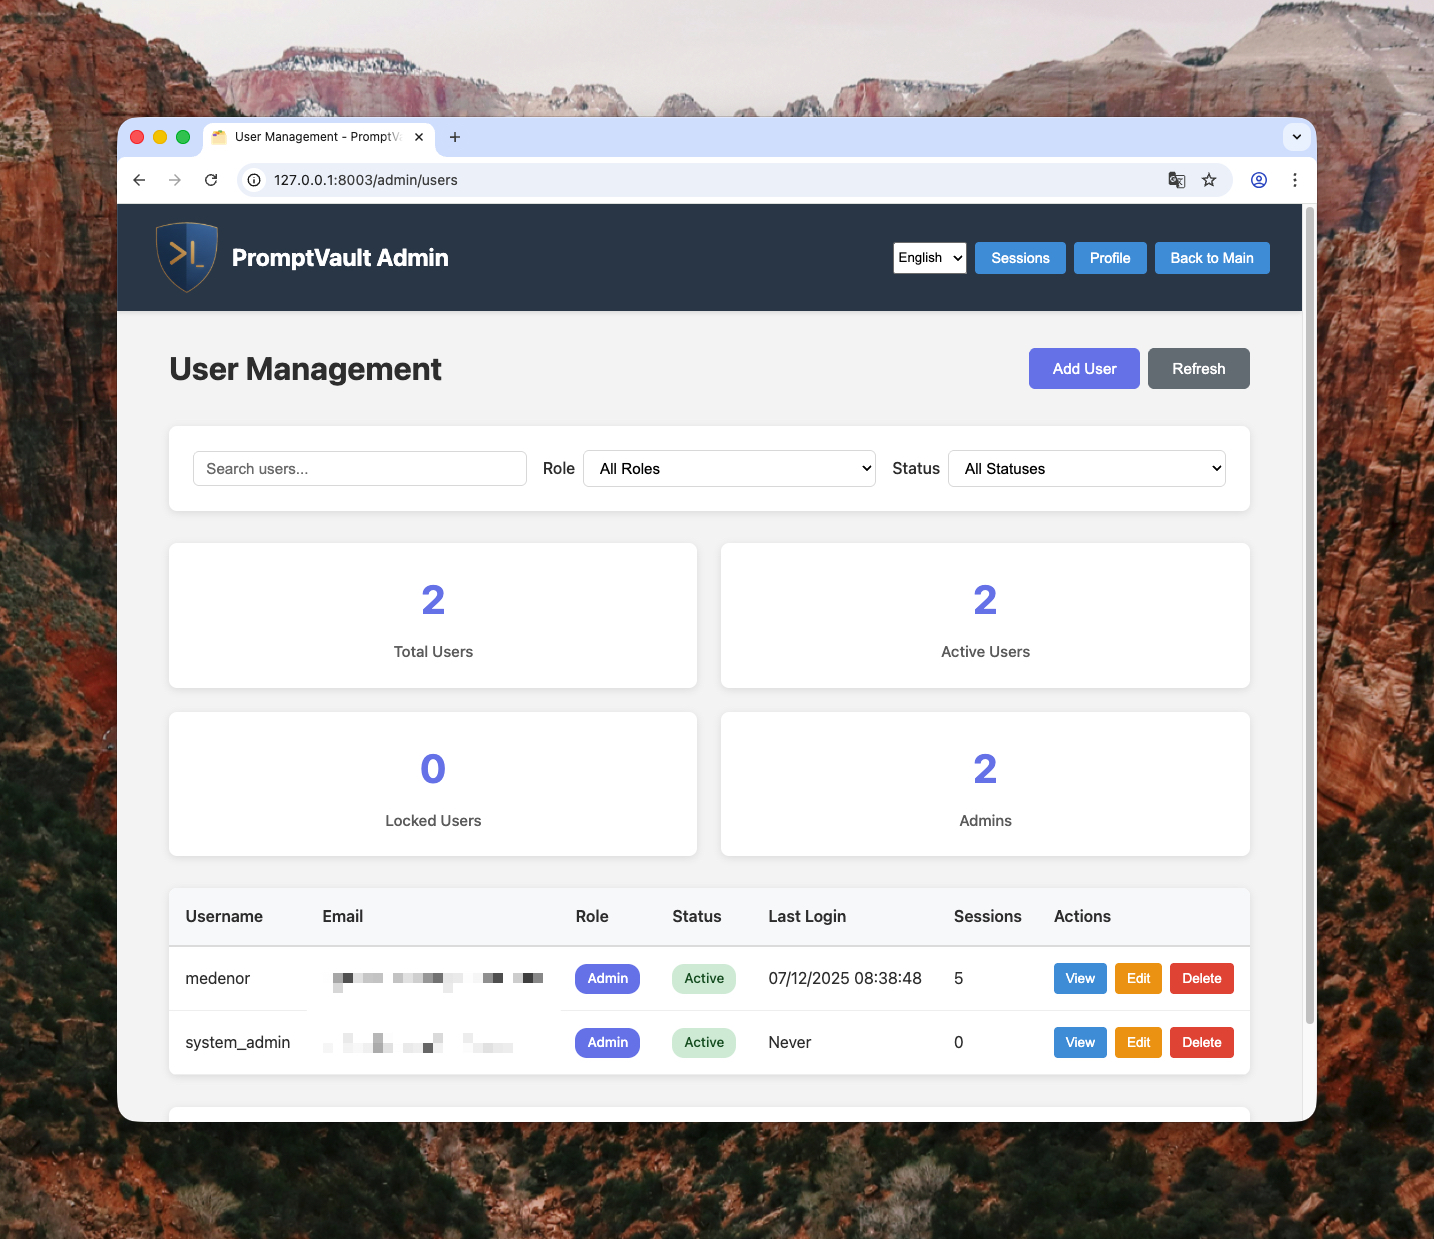
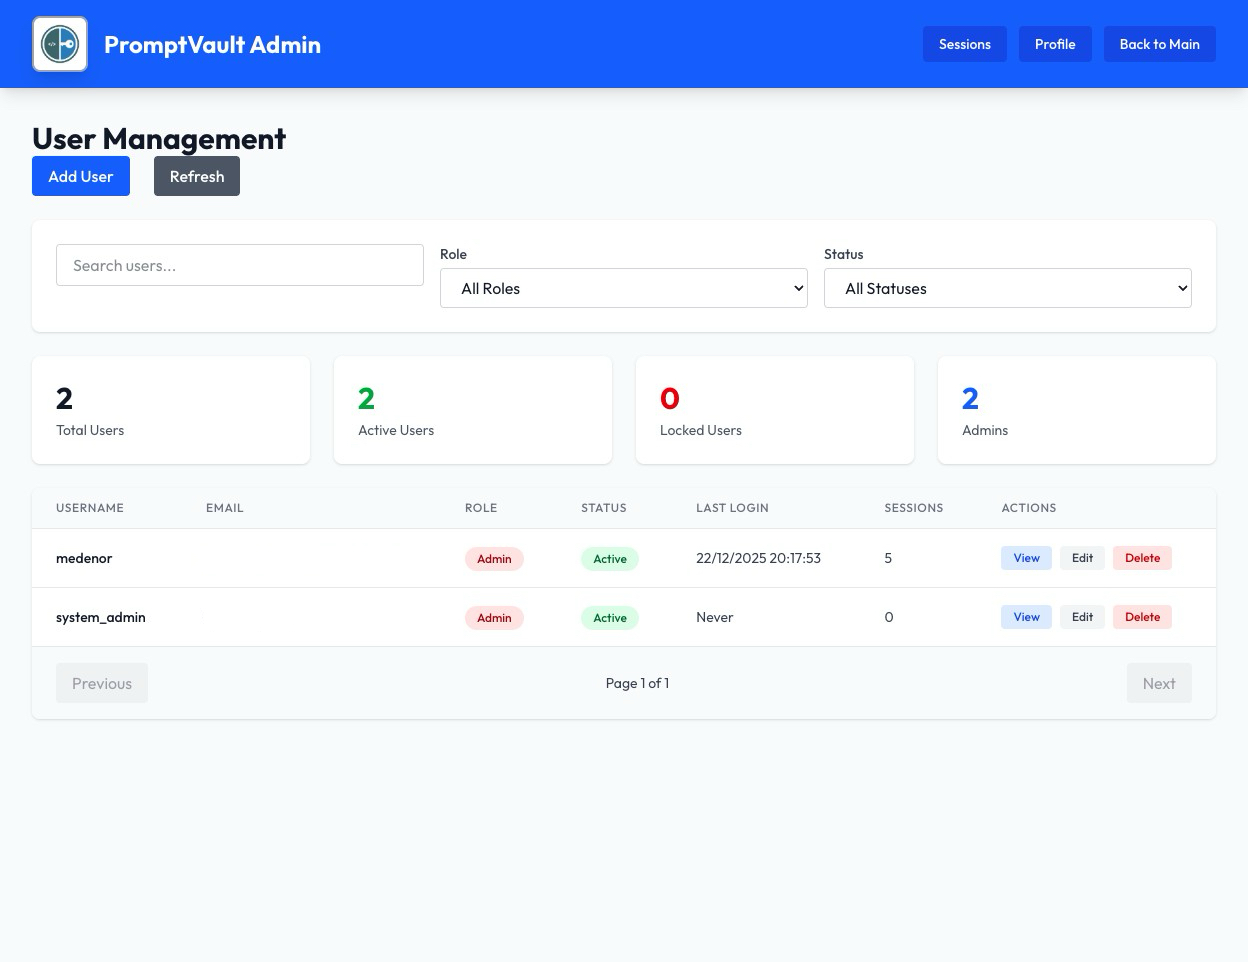
docs: gallery updated to align with new design

diff --git a/README.md b/README.md
@@ -209,56 +209,56 @@ PromptVault includes a comprehensive, production-ready backup system to prevent 
 #### 1. Login Page
 
 <img src="docs/images/gallery/promptvault_loginpage.jpg" alt="PromptVault Login Page" width="90%"><br/>
-Secure authentication interface with JWT-based login and password reset functionality.
+Tailwind v4 flat-design login screen with JWT authentication and password reset access.
 
 <br><br>
 
 #### 2. Main Interface
 
 <img src="docs/images/gallery/promptvault_main_page.jpg" alt="PromptVault Main Interface" width="90%"><br/>
-Clean and intuitive dashboard for managing all your prompts with categories and tags.
+Modern prompt dashboard with filter sidebar, tag chips, and responsive card grid.
 
 <br><br>
 
 #### 3. Prompt Editor
 
 <img src="docs/images/gallery/promptvault_prompt_editor.jpg" alt="Prompt Editor Interface" width="90%"><br/>
-Rich text editor with real-time validation and support for categories, tags, and metadata.
+Redesigned prompt editor with structured fields, categories, tags, and commit messaging.
 
 <br><br>
 
 #### 4. Version History & Diff Visualization
 
 <img src="docs/images/gallery/promptvault_version_history.jpg" alt="Version History" width="90%"><br/>
-Git-like version control system with full history tracking, diff visualization, and revert capabilities.
+Version history modal with searchable entries, revert actions, and quick selection.
 
 <br><br>
 
 #### 5. Import/Export Management
 
 <img src="docs/images/gallery/promptvault_import_export.jpg" alt="Import/Export Management Interface" width="90%"><br/>
-Support for multiple formats (CSV, Markdown, JSON) with preview functionality before import.
+Import/export hub with side-by-side panels, format options, and live statistics.
 
 <br><br>
 
 #### 6. Data Backup System
 
 <img src="docs/images/gallery/promptvault_backup.jpg" alt="Backup Management Interface" width="90%"><br/>
-Comprehensive backup and restoration system with automatic pre-operation backups and compression.
+Backup management view with create/restore actions, maintenance tools, and stats.
 
 <br><br>
 
 #### 7. User Profile Management
 
 <img src="docs/images/gallery/promptvault_user_profile.jpg" alt="User Profile Interface" width="90%"><br/>
-Manage your profile, change password, and view active sessions with device information.
+Profile page with preferences, security controls, and active session management.
 
 <br><br>
 
 #### 8. Admin User Management
 
 <img src="docs/images/gallery/promptvault_admin_user_mgmt.jpg" alt="Admin User Management" width="90%"><br/>
-Administrative interface for managing users, roles, and permissions with full audit capabilities.
+Admin dashboard for user management with filters, role badges, and quick actions.
 
 </div>
 
